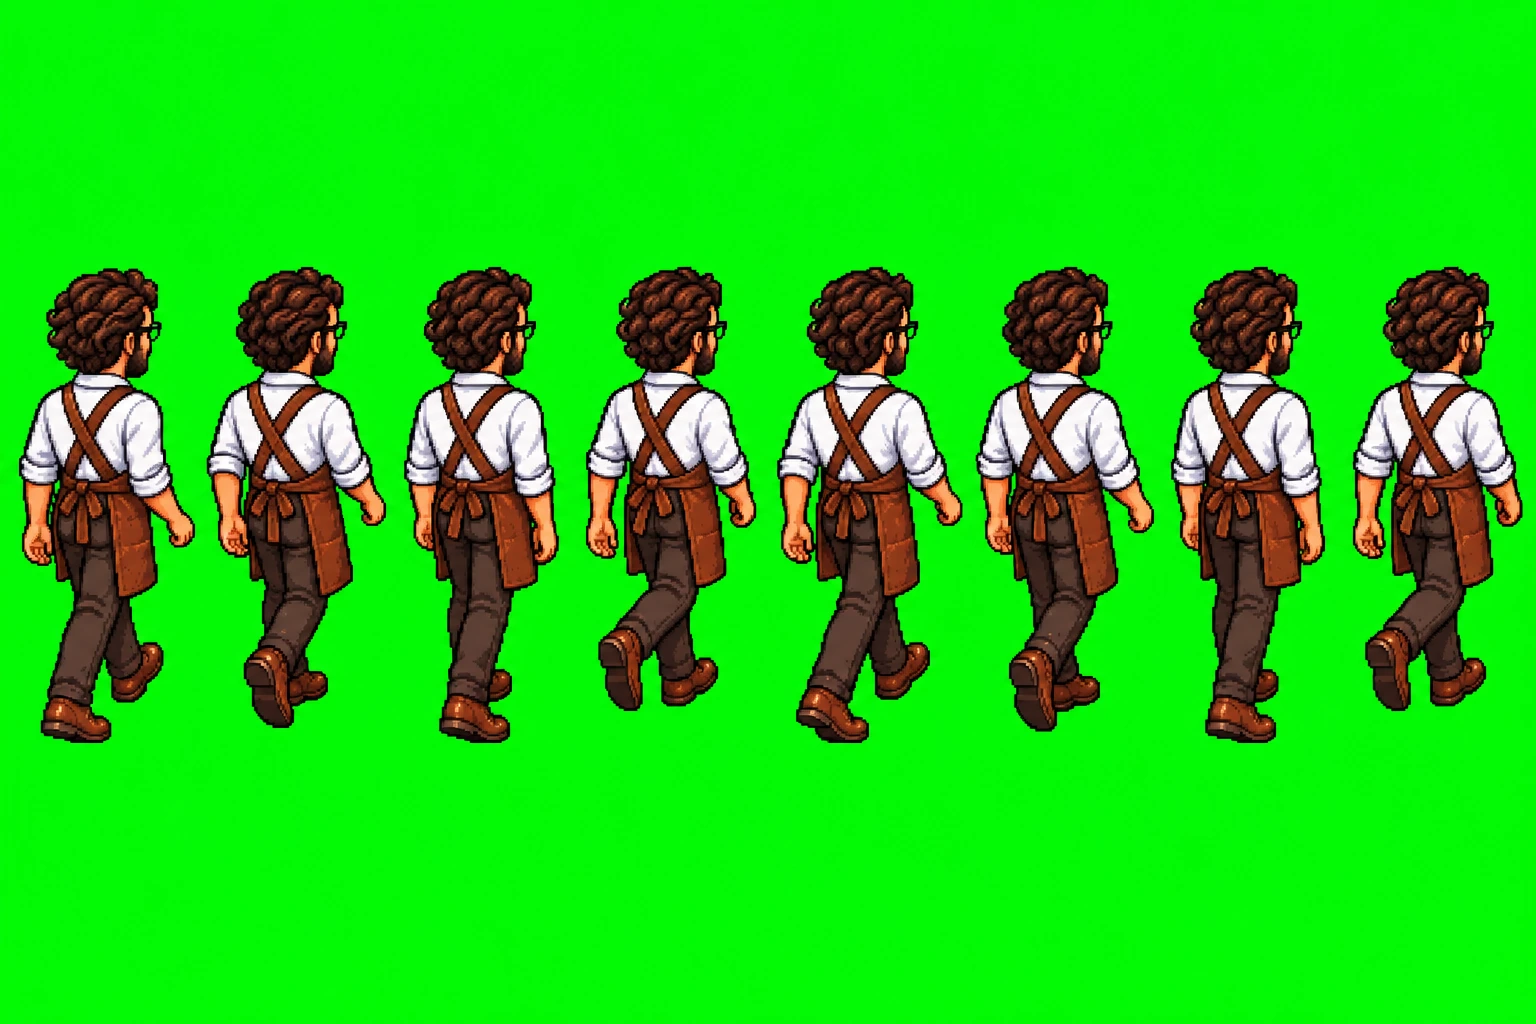
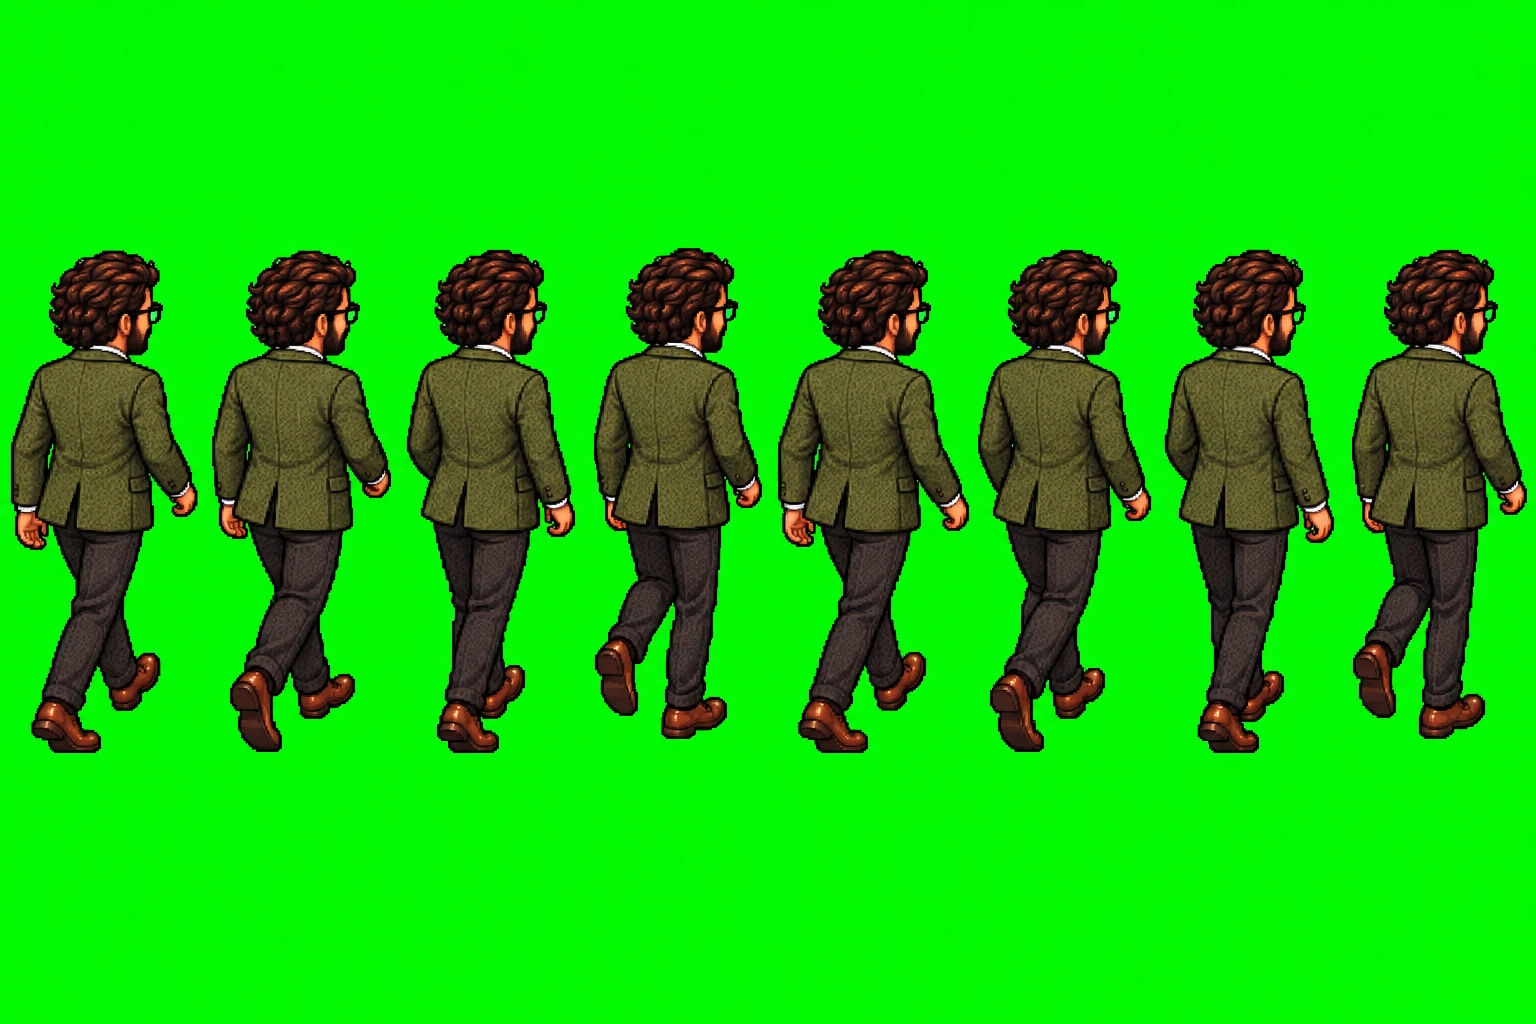
Dress JARVIS in his tweed jacket in the Studio Office room
The room painted him in the apron from mockup 06 while his Office
portrait wears a green tweed jacket. A room spec's agent target can now
carry an outfit: rooms.py has Codex redress them, keeps the cut-out's
outline, and verify counts those pixels apart from the rest of the room
(still 0 px off). His Office sprite sheets are redrawn in the jacket,
with both walks pinned facing right where the foot-slide measure
misread them.

Changed region(s): [[0.0, 0.2188, 1.0, 0.75]]

diff --git a/scripts/mockup-extract/rooms.py b/scripts/mockup-extract/rooms.py
@@ -6,14 +6,17 @@ removed for good.
 
 Codex's image generation paints what each agent or overlay hides; an agent's
 cut-out covers every pixel its fill changed, so with everyone present the room
-recomposes to the mockup exactly.
+recomposes to the mockup exactly. The one exception is an agent target with an
+"outfit": Codex redresses them, and their cut-out wears that instead of what the
+mockup paints (the developer's choice, so the room matches the agent's portrait).
 
-    python3 scripts/mockup-extract/rooms.py generate scripts/mockup-extract/specs/office-room.json [region ...]
+    python3 scripts/mockup-extract/rooms.py generate scripts/mockup-extract/specs/office-room.json [region or target ...]
     python3 scripts/mockup-extract/rooms.py compose  scripts/mockup-extract/specs/office-room.json
 
-`generate` asks Codex for each region's fill that isn't on disk yet (it uses this
-Mac's Codex sign-in). `compose` builds the plate, the cut-outs and the manifest,
-then checks the recomposition against the mockup.
+`generate` asks Codex for each region's fill and each outfit that isn't on disk
+yet (it uses this Mac's Codex sign-in); naming a region or target redoes it.
+`compose` builds the plate, the cut-outs and the manifest, then checks the
+recomposition against the mockup.
 """
 
 from __future__ import annotations
@@ -65,6 +68,17 @@ ADD_PROMPT = (
 )
 
 
+# For an agent target with an "outfit": the same person, dressed differently, in the same place.
+OUTFIT_PROMPT = (
+    "Use your image generation tool to edit the attached image. It is a crop of an isometric pixel-art "
+    "illustration of a room, enlarged to {size}x{size}. Change only the clothes of {who}: dress them in {outfit}. "
+    "Keep their face, hair, skin, pose, hands and outline exactly as they are, and draw the new clothes in exactly "
+    "the same pixel-art style, with the same outlines, lighting and shadows. Keep everything else exactly the same: "
+    "the same framing and camera angle, and every object exactly where it is. Do not add anything else. After "
+    "generating, copy the generated image file to ./{out} in the current folder."
+)
+
+
 def root() -> Path:
     return Path(__file__).resolve().parents[2]
 
@@ -94,33 +108,50 @@ def base_path(spec: dict) -> Path:
     return (root() / spec["fillDir"]).parent / "base.png"
 
 
-def generate_one(spec: dict, region: dict) -> str:
-    out = fill_path(spec, region)
+def outfit_path(spec: dict, target: dict) -> Path:
+    return root() / spec["fillDir"] / f"{target['id']}-outfit.png"
+
+
+def generate_one(spec: dict, region: dict, target: dict | None = None) -> str:
+    """A region's fill or, given a target with an outfit, that target redressed."""
+    label = target["id"] if target else region["id"]
+    out = outfit_path(spec, target) if target else fill_path(spec, region)
     source = Image.open(root() / spec["source"]).convert("RGB")
     x0, y0, x1, y1 = region["crop"]
     crop = source.crop((x0, y0, x1, y1))
-    with tempfile.TemporaryDirectory(prefix=f"room-{region['id']}-") as tmp:
+    with tempfile.TemporaryDirectory(prefix=f"room-{label}-") as tmp:
         work = Path(tmp)
         crop.resize((GENERATION_SIZE, GENERATION_SIZE), Image.LANCZOS).save(work / "reference.png")
-        targets = "; ".join(t["describe"] for t in region["targets"])
-        template = ADD_PROMPT if region.get("kind") == "add" else PROMPT
-        prompt = template.format(size=GENERATION_SIZE, targets=targets, out="fill.png")
+        if target:
+            outfit = target["outfit"]
+            prompt = OUTFIT_PROMPT.format(size=GENERATION_SIZE, who=outfit["who"], outfit=outfit["wears"], out="fill.png")
+        else:
+            targets = "; ".join(t["describe"] for t in region["targets"])
+            template = ADD_PROMPT if region.get("kind") == "add" else PROMPT
+            prompt = template.format(size=GENERATION_SIZE, targets=targets, out="fill.png")
         made, tail = generate_image(work, work / "reference.png", prompt, "fill.png")
         if made is None:
-            return f"{region['id']}: no image came back ({tail})"
+            return f"{label}: no image came back ({tail})"
         out.parent.mkdir(parents=True, exist_ok=True)
         # Kept at the crop's own size: that's all compose needs.
         Image.open(made).convert("RGB").resize(crop.size, Image.LANCZOS).save(out, optimize=True)
-    return f"{region['id']}: generated"
+    return f"{label}: generated"
 
 
 def generate(spec: dict, only: list[str]) -> None:
-    todo = [r for r in spec["regions"] if (not only or r["id"] in only) and (only or not fill_path(spec, r).exists())]
+    """Fills and outfits not on disk yet; named regions or targets are redone."""
+    todo: list[tuple[dict, dict | None]] = []
+    for region in spec["regions"]:
+        if (region["id"] in only) if only else not fill_path(spec, region).exists():
+            todo.append((region, None))
+        for target in (t for t in region["targets"] if t.get("outfit")):
+            if (target["id"] in only) if only else not outfit_path(spec, target).exists():
+                todo.append((region, target))
     if not todo:
-        print("Every region already has its fill.")
+        print("Every region already has its fill, and every outfit is painted.")
         return
     with ThreadPoolExecutor(max_workers=PARALLEL_GENERATIONS) as pool:
-        for line in pool.map(lambda r: generate_one(spec, r), todo):
+        for line in pool.map(lambda job: generate_one(spec, *job), todo):
             print(line)
 
 
@@ -179,11 +210,20 @@ def region_view(img: np.ndarray, region: dict, origin: tuple[int, int]) -> np.nd
     return img[vy0 - origin[1]:vy1 - origin[1], vx0 - origin[0]:vx1 - origin[0]]
 
 
-def fill_on_plate(spec: dict, region: dict) -> np.ndarray:
-    """A region's fill, trimmed to the part of its crop on the plate."""
+def fill_on_plate(region: dict, path: Path) -> np.ndarray:
+    """A fill of a region's crop, trimmed to the part of the crop on the plate."""
     cx0, cy0 = region["crop"][:2]
     vx0, vy0, vx1, vy1 = region["view"]
-    return rgb(fill_path(spec, region))[vy0 - cy0:vy1 - cy0, vx0 - cx0:vx1 - cx0]
+    return rgb(path)[vy0 - cy0:vy1 - cy0, vx0 - cx0:vx1 - cx0]
+
+
+def redressed(current: np.ndarray, outfit: np.ndarray, touched: np.ndarray) -> np.ndarray:
+    """A cut-out's pixels in its new outfit: the mockup's own, with the outfit fill blended
+    in wherever it changed them, kept inside the cut-out."""
+    change = np.abs(outfit - current).max(axis=2)
+    clothes = shrink(grow((change > CHANGE_THRESHOLD) & touched, CLOSE_RADIUS), CLOSE_RADIUS)
+    weight = (soft(clothes) * touched)[..., None]
+    return current * (1 - weight) + outfit * weight
 
 
 def compose(spec: dict) -> None:
@@ -199,7 +239,7 @@ def compose(spec: dict) -> None:
     base = source[py0:py1, px0:px1].copy()
     for region in spec["regions"]:
         region["view"] = within(region, spec["plate"])
-    fills = {r["id"]: colour_matched(fill_on_plate(spec, r), region_view(base, r, origin)) for r in spec["regions"]}
+    fills = {r["id"]: colour_matched(fill_on_plate(r, fill_path(spec, r)), region_view(base, r, origin)) for r in spec["regions"]}
     owned = np.zeros(base.shape[:2], dtype=bool)
     intended: list[dict] = []
 
@@ -227,6 +267,7 @@ def compose(spec: dict) -> None:
 
     # Pass 2: agents and helpers lifted out of the base. Front ones claim shared pixels first.
     # The base is settled, so an agent's edge may re-blend what pass 1 painted (a label beside them).
+    # An agent with an outfit keeps the mockup's outline but wears the outfit fill's clothes.
     owned[:] = False
     plate = base.copy()
     cutouts: dict[str, dict] = {}
@@ -246,11 +287,17 @@ def compose(spec: dict) -> None:
             taken |= touched
             ys, xs = np.nonzero(touched)
             bx0, by0, bx1, by1 = xs.min(), ys.min(), xs.max() + 1, ys.max() + 1
-            rgba = np.dstack([current[by0:by1, bx0:bx1], np.where(touched[by0:by1, bx0:bx1], 255.0, 0.0)])
+            pixels = current
+            if target.get("outfit"):
+                outfit = colour_matched(fill_on_plate(region, outfit_path(spec, target)), current)
+                pixels = redressed(current, outfit, touched)
+            rgba = np.dstack([pixels[by0:by1, bx0:bx1], np.where(touched[by0:by1, bx0:bx1], 255.0, 0.0)])
             file = f"cutout-{target['id']}.png"
             save(rgba, out / file)
             cx0, cy0 = region["view"][0], region["view"][1]
             cutouts[target["id"]] = {"file": file, "rect": [int(cx0 + bx0), int(cy0 + by0), int(cx0 + bx1), int(cy0 + by1)]}
+            if target.get("outfit"):
+                cutouts[target["id"]]["redressed"] = True
 
     # Pass 3: characters painted into free seats. The plate keeps the seat empty; the
     # cut-out is the fill itself, feathered into the room, and the mockup never shows it.
@@ -281,12 +328,14 @@ def compose(spec: dict) -> None:
 
 
 def verify(spec: dict, out: Path, manifest: dict) -> None:
-    """Everyone back in place must reproduce the base exactly, and the base must be the
-    mockup everywhere but the interface it removed."""
+    """Everyone back in place must reproduce the base exactly, apart from the agents
+    wearing a new outfit, and the base must be the mockup everywhere but the interface
+    it removed."""
     source = rgb(root() / spec["source"])
     px0, py0, px1, py1 = spec["plate"]
     base = rgb(base_path(spec))
     scene = rgb(out / "plate.png")
+    dressed = np.zeros(scene.shape[:2], dtype=bool)
     for cut in manifest["cutouts"].values():
         if cut.get("added"):
             continue
@@ -295,7 +344,10 @@ def verify(spec: dict, out: Path, manifest: dict) -> None:
         alpha = layer[..., 3:] / 255
         region = scene[y0 - py0:y1 - py0, x0 - px0:x1 - px0]
         region[:] = region * (1 - alpha) + layer[..., :3] * alpha
-    recomposed = int((np.abs(np.round(scene) - base).max(axis=2) > 1).sum())
+        if cut.get("redressed"):
+            dressed[y0 - py0:y1 - py0, x0 - px0:x1 - px0] |= alpha[..., 0] > 0
+    differs = np.abs(np.round(scene) - base).max(axis=2) > 1
+    recomposed = int((differs & ~dressed).sum())
     off = np.abs(base - source[py0:py1, px0:px1]).max(axis=2) > 1
     for item in manifest["intended"]:
         x0, y0, x1, y1 = item["rect"]
@@ -303,7 +355,8 @@ def verify(spec: dict, out: Path, manifest: dict) -> None:
         off[max(y0 - py0 - pad, 0):y1 - py0 + pad, max(x0 - px0 - pad, 0):x1 - px0 + pad] = False
     added = sum(1 for cut in manifest["cutouts"].values() if cut.get("added"))
     print(f"{out.relative_to(root())}: plate + {len(manifest['cutouts'])} cut-outs ({added} painted in), {len(manifest['intended'])} interface removals; "
-          f"{recomposed} px off when everyone's back, {int(off.sum())} px off the mockup outside the removed interface")
+          f"{recomposed} px off when everyone's back, {int((differs & dressed).sum())} px in new outfits, "
+          f"{int(off.sum())} px off the mockup outside the removed interface")
     if recomposed or off.sum():
         raise SystemExit("The room doesn't recompose to the mockup.")
 

diff --git a/docs/plans/2026-09-16-exact-implementation-requirements.md b/docs/plans/2026-09-16-exact-implementation-requirements.md
@@ -736,7 +736,7 @@ This builds what the entry above lists as not built, except the Character Studio
 - **One renderer and one view draw every room from data**: stations, lights, helpers, the card's placement, name tags and the board, kept in each room's scene file. Only After Hours R&D has a character who walks (FRIDAY's animation frames), and R&D is unchanged.
 - **VERONICA has no station in either mockup**, so Codex paints her into a free seat: the far side of the Studio Office meeting table, and a floor cushion in Mori Cafe's tatami lounge. Those two cut-outs are generated art, not mockup pixels. Reference mode leaves the two seats empty, as the mockups show them.
 - **Theme outfits.** Studio Office and Mori Cafe each have a portrait for every figure in that theme's outfits (`scripts/mockup-extract/outfits.py`). Each comes from three references: the agent's own portrait (their face), the mockups' drawings of the outfit, and one of the theme's mockup portraits (the style). Theme Studio's Agent appearance (mockup 05) offers three choices: keep current appearance, use theme outfits (the default), or choose another theme's outfits. The choice is saved with the theme (`outfits` in the configuration), works independently of it (gate E), and is previewed with it. After Hours R&D's outfits are the agents' own look. The rooms always show their own outfits, because they're painted, so the setting changes portraits only.
-- Where the mockups disagree about an outfit, the developer chose: Studio Office's JARVIS keeps the tweed jacket from 05 in his portrait (aprons are Mori Cafe's look), while the room keeps the apron 06 paints.
+- Where the mockups disagree about an outfit, the developer chose: Studio Office's JARVIS keeps the tweed jacket from 05 in his portrait (aprons are Mori Cafe's look), while the room keeps the apron 06 paints (reversed on 2026-10-07: the room now dresses him in the jacket too).
 - Still not built: the Character Studio's part-by-part customisation and pose previews.
 
 ### 2026-10-06: chats per project, one session per chat, and marking work reviewed
@@ -1120,3 +1120,11 @@ The developer asked that marking an owner's task reviewed can mark its delegated
 - **Mark as reviewed asks, when there's finished delegated work:** a checkbox (ticked) to mark that work reviewed too, the teammates' tasks it covers, and how many stay as they are. With nothing finished delegated, it marks the task at once, as before.
 - **Afterwards, from the task's menu:** "Mark N finished delegated tasks reviewed", for a task already reviewed (or still running) whose delegated work has since finished or was left out.
 - **Verified here.** A Rust test covers which delegated work counts as finished; a unit test covers the same on screen. WebKit tests mark a task reviewed with its finished delegated work, and without it and then from the menu.
+
+### 2026-10-07: JARVIS wears his tweed jacket in the Studio Office
+
+The developer pointed out that JARVIS sits in the Studio Office "wearing an apron — when he should be wearing a suit like his avatar". This reverses the 2026-10-06 choice that the room keeps the apron mockup 06 paints.
+
+- **The room dresses him like his portrait**: a moss-green tweed jacket over a white collared shirt. An agent target in a room spec can now carry an `outfit` (`scripts/mockup-extract/rooms.py`). Codex redresses that agent in the region's crop. Their cut-out keeps the mockup's outline (the same pixels lifted out, the same rect), with the new clothes blended in wherever the repaint changed them. The rest of the room is still the mockup. The check counts the redressed pixels separately (2,324 px) and still requires 0 px off everywhere else.
+- **His animation frames match.** The Studio Office commander sheets (poses and walks) were redrawn from the redressed cut-out in the same outfit. His typing and glancing at the desk still move the cut-out's own pixels.
+- Reference mode shows him in the jacket too, so at his seat it now differs from mockup 06, on purpose. Mori Cafe keeps his apron, because aprons are its look.
